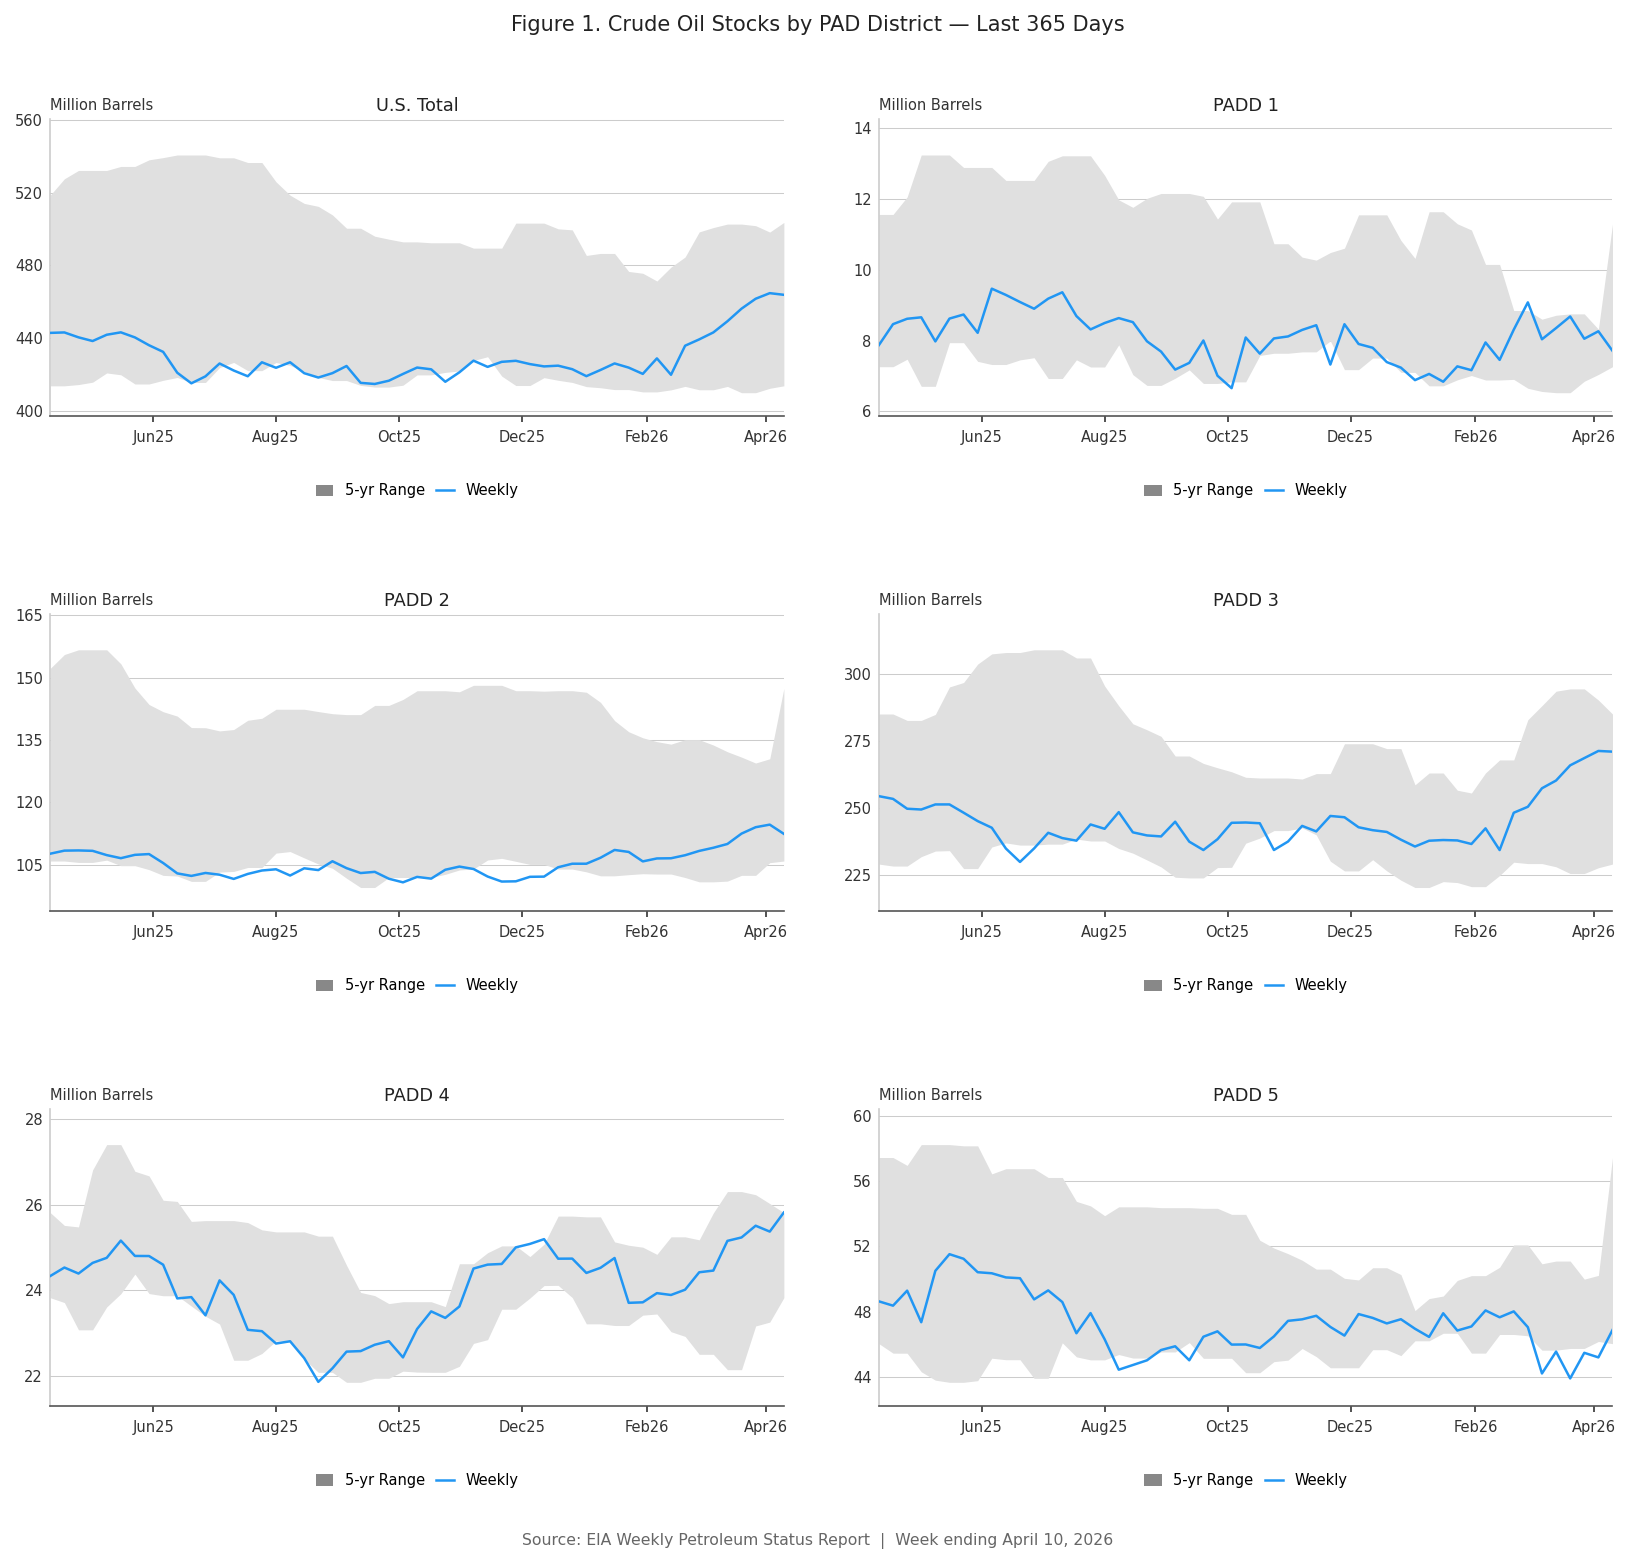
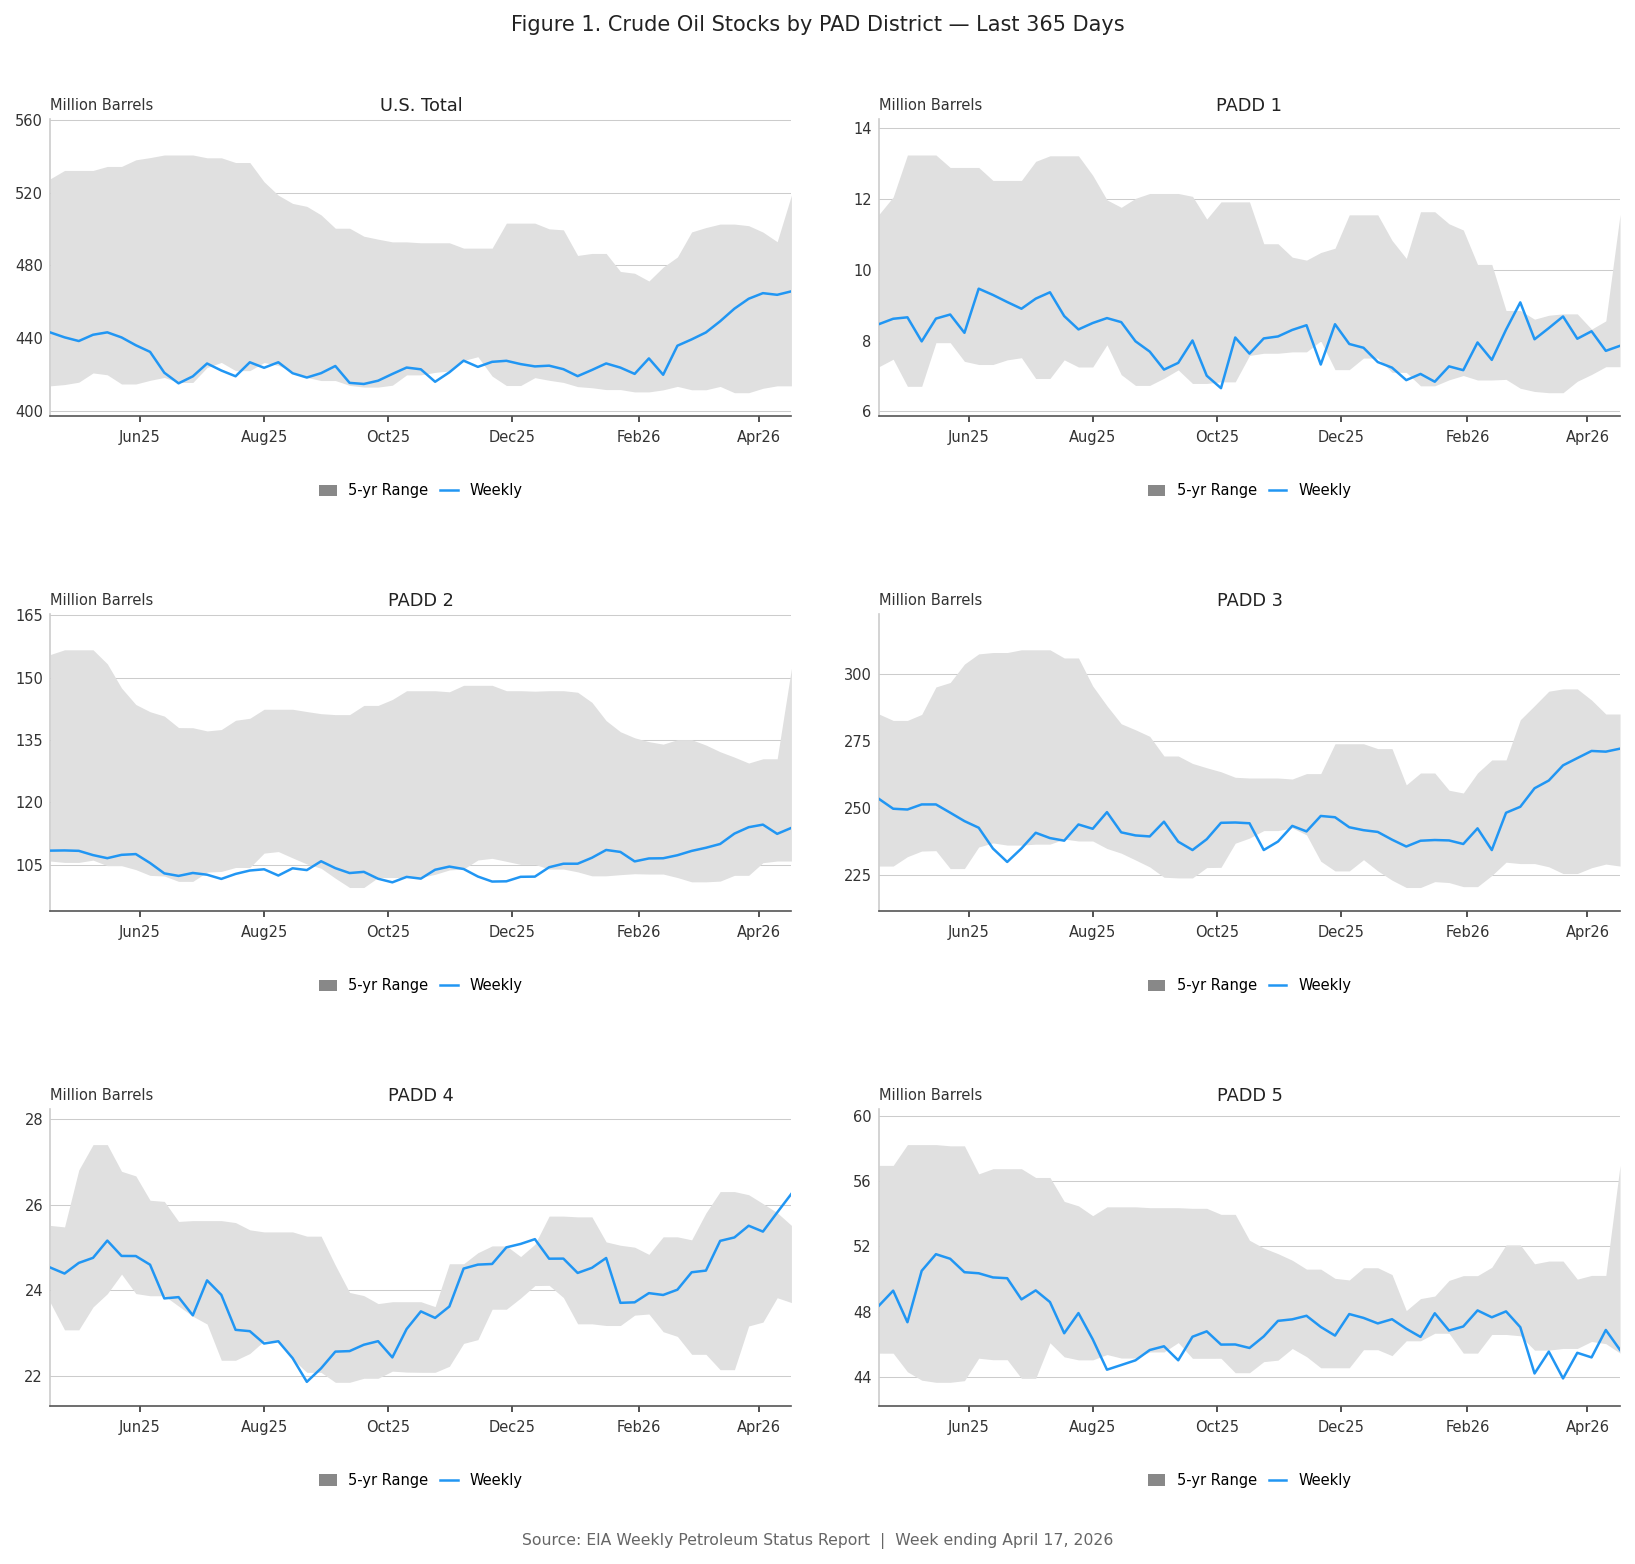
Update Petroleum Stocks Weekly Chart - 2026-04-22 🤖

diff --git a/reports/petroleum-stocks/index.html b/reports/petroleum-stocks/index.html
@@ -3,7 +3,7 @@
 <head>
   <meta charset="UTF-8" />
   <meta name="viewport" content="width=device-width, initial-scale=1.0" />
-  <title>Weekly Petroleum Stocks by PAD District — 2026-04-10</title>
+  <title>Weekly Petroleum Stocks by PAD District — 2026-04-17</title>
   <style>
     *{box-sizing:border-box;margin:0;padding:0}
     body{background:#f5f5f5;font-family:Arial,sans-serif;display:flex;
@@ -29,7 +29,7 @@
 <body>
   <header>
     <h1>&#x1F6E2;&#xFE0F; Weekly Petroleum Stocks by PAD District</h1>
-    <p>Last 365 days with 5-year seasonal range &mdash; week ending 2026-04-10</p>
+    <p>Last 365 days with 5-year seasonal range &mdash; week ending 2026-04-17</p>
   </header>
   <div class="tab-bar">
     <button class="tab-btn active" onclick="switchTab('crude', this)">Crude Oil</button>
@@ -38,17 +38,17 @@
   </div>
   <div id="tab-crude" class="tab-pane active">
     <div class="chart-wrapper">
-      <img src="Crude_Stocks_Weekly_2026_04_22.png?v=1776875961" alt="Crude Oil Stocks by PADD 2026-04-10" />
+      <img src="Crude_Stocks_Weekly_2026_04_22.png?v=1776896617" alt="Crude Oil Stocks by PADD 2026-04-17" />
     </div>
   </div>
   <div id="tab-gasoline" class="tab-pane">
     <div class="chart-wrapper">
-      <img src="Gasoline_Stocks_Weekly_2026_04_22.png?v=1776875961" alt="Motor Gasoline Stocks by PADD 2026-04-10" />
+      <img src="Gasoline_Stocks_Weekly_2026_04_22.png?v=1776896617" alt="Motor Gasoline Stocks by PADD 2026-04-17" />
     </div>
   </div>
   <div id="tab-distillate" class="tab-pane">
     <div class="chart-wrapper">
-      <img src="Distillate_Stocks_Weekly_2026_04_22.png?v=1776875961" alt="Distillate Fuel Oil Stocks by PADD 2026-04-10" />
+      <img src="Distillate_Stocks_Weekly_2026_04_22.png?v=1776896617" alt="Distillate Fuel Oil Stocks by PADD 2026-04-17" />
     </div>
   </div>
   <footer>
@@ -66,92 +66,5 @@
       btn.classList.add('active');
     }
   </script>
-
-<!-- petro-commentary-start -->
-<div style="max-width:1400px;margin:40px auto 0;padding:0 20px 40px;">
-  <div style="background:white;border-radius:8px;box-shadow:0 2px 4px rgba(0,0,0,0.1);padding:30px;">
-    <div style="border-left:4px solid #007bff;padding-left:16px;margin-bottom:20px;">
-      <h2 style="color:#333;margin:0 0 4px;">AI Commentary</h2>
-      <p style="color:#666;font-size:0.85em;margin:0;">Generated 2026-04-22 22:18 UTC &nbsp;·&nbsp; google/gemma-4-31B-it</p>
-    </div>
-    <div style="line-height:1.7;color:#444;font-family:-apple-system,BlinkMacSystemFont,'Segoe UI',Roboto,sans-serif;">
-      <style>
-        .petro-commentary table {border-collapse:collapse;width:100%;margin:16px 0;}
-        .petro-commentary th,
-        .petro-commentary td {border:1px solid #dee2e6;padding:8px 12px;text-align:left;}
-        .petro-commentary th {background:#f8f9fa;font-weight:600;}
-        .petro-commentary h2,.petro-commentary h3 {color:#333;margin:20px 0 8px;}
-        .petro-commentary ul {padding-left:20px;}
-        .petro-commentary li {margin:4px 0;}
-      </style>
-      <div class="petro-commentary"><h2>EIA Weekly Petroleum Analysis: Week Ending 2026-04-10</h2>
-<h3>Executive Summary</h3>
-<table>
-<thead>
-<tr>
-<th style="text-align: left;">Product</th>
-<th style="text-align: left;">MMBbl</th>
-<th style="text-align: left;">WoW</th>
-<th style="text-align: left;">Seasonal %</th>
-<th style="text-align: left;">Signal</th>
-</tr>
-</thead>
-<tbody>
-<tr>
-<td style="text-align: left;"><strong>Crude Oil</strong></td>
-<td style="text-align: left;">463.8</td>
-<td style="text-align: left;">-0.9</td>
-<td style="text-align: left;">55.7%</td>
-<td style="text-align: left;">Neutral</td>
-</tr>
-<tr>
-<td style="text-align: left;"><strong>Gasoline</strong></td>
-<td style="text-align: left;">232.9</td>
-<td style="text-align: left;">-6.3</td>
-<td style="text-align: left;">26.8%</td>
-<td style="text-align: left;">Bullish</td>
-</tr>
-<tr>
-<td style="text-align: left;"><strong>Distillates</strong></td>
-<td style="text-align: left;">111.6</td>
-<td style="text-align: left;">-3.1</td>
-<td style="text-align: left;">8.1%</td>
-<td style="text-align: left;">Strongly Bullish</td>
-</tr>
-</tbody>
-</table>
-<hr />
-<h3>1. Crude Oil Positioning</h3>
-<ul>
-<li><strong>NUS Total:</strong> A modest draw of 0.9 MMBbl keeps total stocks near the median of the 5-year seasonal range (55.7%), suggesting a balanced market.</li>
-<li><strong>PADD 3 Highlight:</strong> The Gulf Coast remains the primary outlier at 74.9% of its seasonal range. This concentration of supply in the refining hub acts as a ceiling for WTI upside, offsetting draws in other regions.</li>
-</ul>
-<h3>2. Gasoline Positioning</h3>
-<ul>
-<li><strong>Seasonal Tightness:</strong> Stocks are leaning tight at 26.8% of the 5-year range.</li>
-<li><strong>Demand Signal:</strong> A significant WoW draw of 6.3 MMBbl indicates a strong ramp-up in demand as the market enters the spring driving season. PADD 5 (West Coast) is particularly lean at 14.7%, suggesting localized price volatility.</li>
-</ul>
-<h3>3. Distillate Positioning</h3>
-<ul>
-<li><strong>Seasonal Tightness:</strong> Distillates are in a critical deficit, sitting at only 8.1% of the 5-year seasonal range.</li>
-<li><strong>Demand Signal:</strong> The 3.1 MMBbl draw, coupled with near-zero stocks in PADD 5 (-0.4%), suggests an aggressive burn-off of winter heating oil reserves and robust diesel demand for spring agricultural activity.</li>
-</ul>
-<h3>4. Cross-Product Divergences</h3>
-<ul>
-<li><strong>Refining Shift:</strong> We see a clear divergence between crude and products. While crude stocks are neutral/balanced, refined products (Gasoline and Distillates) are significantly undersupplied relative to seasonal norms. This indicates high refinery utilization rates and a shift in the "bottleneck" from raw material to finished product.</li>
-</ul>
-<h3>5. Price Implications</h3>
-<ul>
-<li><strong>WTI:</strong> <strong>Neutral.</strong> The modest draw is offset by the heavy inventory concentration in PADD 3.</li>
-<li><strong>Refined Products:</strong> <strong>Bullish.</strong> Both Gasoline and Distillates are trading in a tight seasonal window with active draws. Expect RBOB and ULSD cracks to widen as inventories move toward the bottom of the 5-year range.</li>
-</ul>
-<h3>6. Watchlist for Next Wednesday</h3>
-<ul>
-<li><strong>PADD 3 Crude Levels:</strong> Watch for any significant draw in the Gulf Coast. If PADD 3 begins to clear its surplus, it will remove the primary bearish anchor for WTI and could trigger a sharp price rally.</li>
-</ul></div>
-    </div>
-  </div>
-</div>
-<!-- petro-commentary-end -->
 </body>
 </html>
